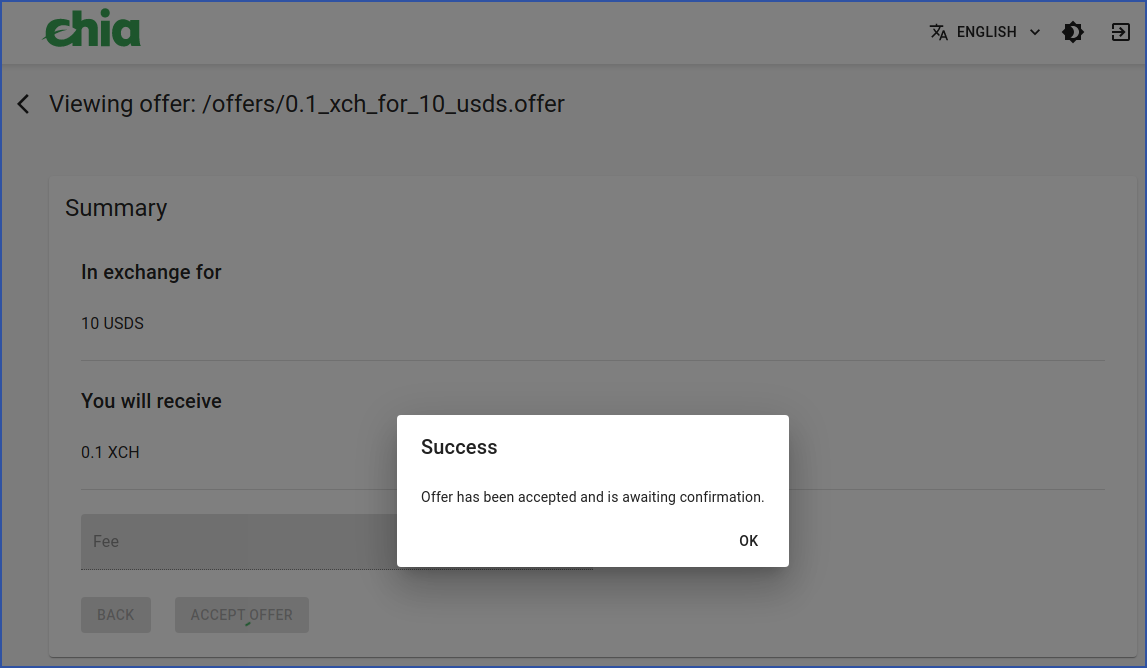
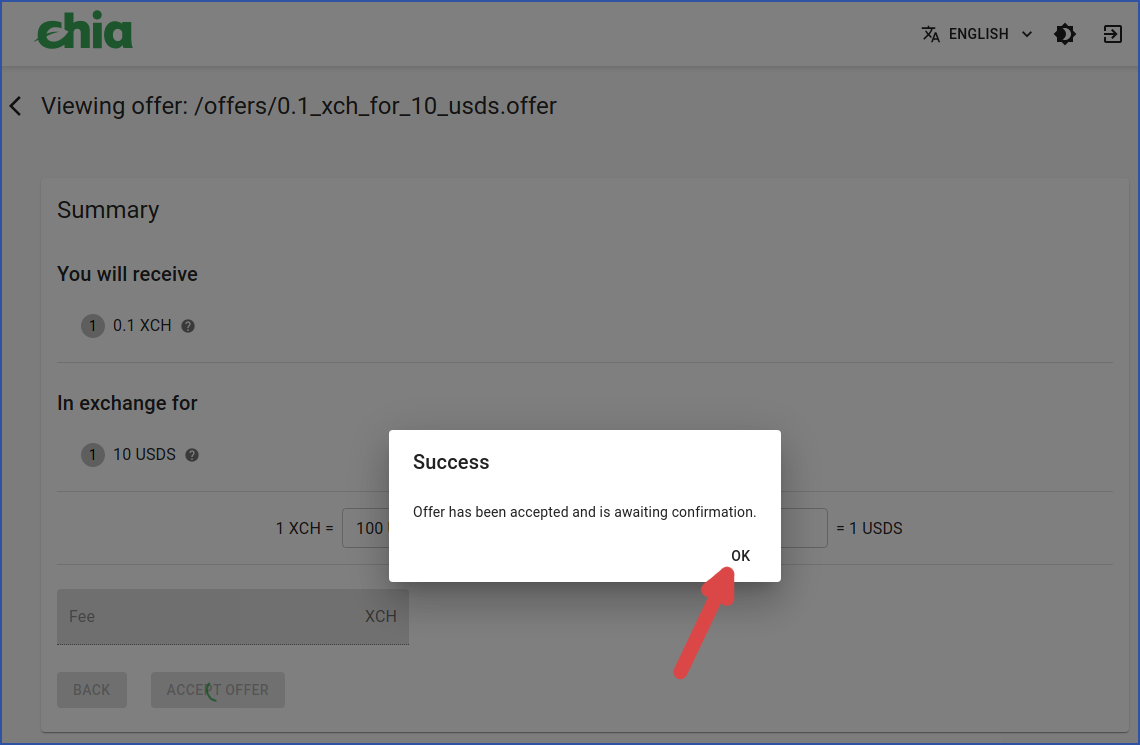
Update offer graphics

diff --git a/docs/tutorials/offers_gui_tutorial.md b/docs/tutorials/offers_gui_tutorial.md
@@ -184,7 +184,6 @@ This example will use a different computer to accept the offer that was created 
 
   6. You'll be given a chance to cancel your acceptance of the offer. Click "ACCEPT OFFER" to continue.
 
-TODO: update graphic
 <figure>
 <img src="../../static/img/offers_img/gui_tutorial/offer_single_accept/6_accept_offer.png" alt="Accept offer"/>
 </figure>
@@ -192,7 +191,6 @@ TODO: update graphic
 
    7. After a few seconds, you'll receive a "Success" message. This means the offer has been completed and sent to the blockchain for confirmation.
 
-TODO: update graphic
 <figure>
 <img src="../../static/img/offers_img/gui_tutorial/offer_single_accept/7_success.png" alt="Success"/>
 </figure>
@@ -438,8 +436,6 @@ There is an offer of 0.25 Shibe (an unknown CAT) in exchange for 0.1 XCH.
 
 Here's the offer from the Taker's perspective:
 
-TODO: Update graphic
-
 <figure>
 <img src="../../static/img/offers_img/gui_tutorial/issues/08_0.25_shibe_for_0.1_xch.png" alt="Offer shibe for XCH"/>
 </figure>
@@ -449,14 +445,9 @@ The Taker decides to accept the offer.
 
 There is a warning dialog about the unknown cat, after which the offer is confirmed successfully:
 
-TODO: Update graphic
-
 <figure>
 <img src="../../static/img/offers_img/gui_tutorial/issues/09_accept_unknown_warning.png" alt="Unknown CAT warning"/>
 </figure>
-
-TODO: Update graphic
-
 <figure>
 <img src="../../static/img/offers_img/gui_tutorial/issues/10_unknown_success.png" alt="Unknown CAT success"/>
 </figure>
